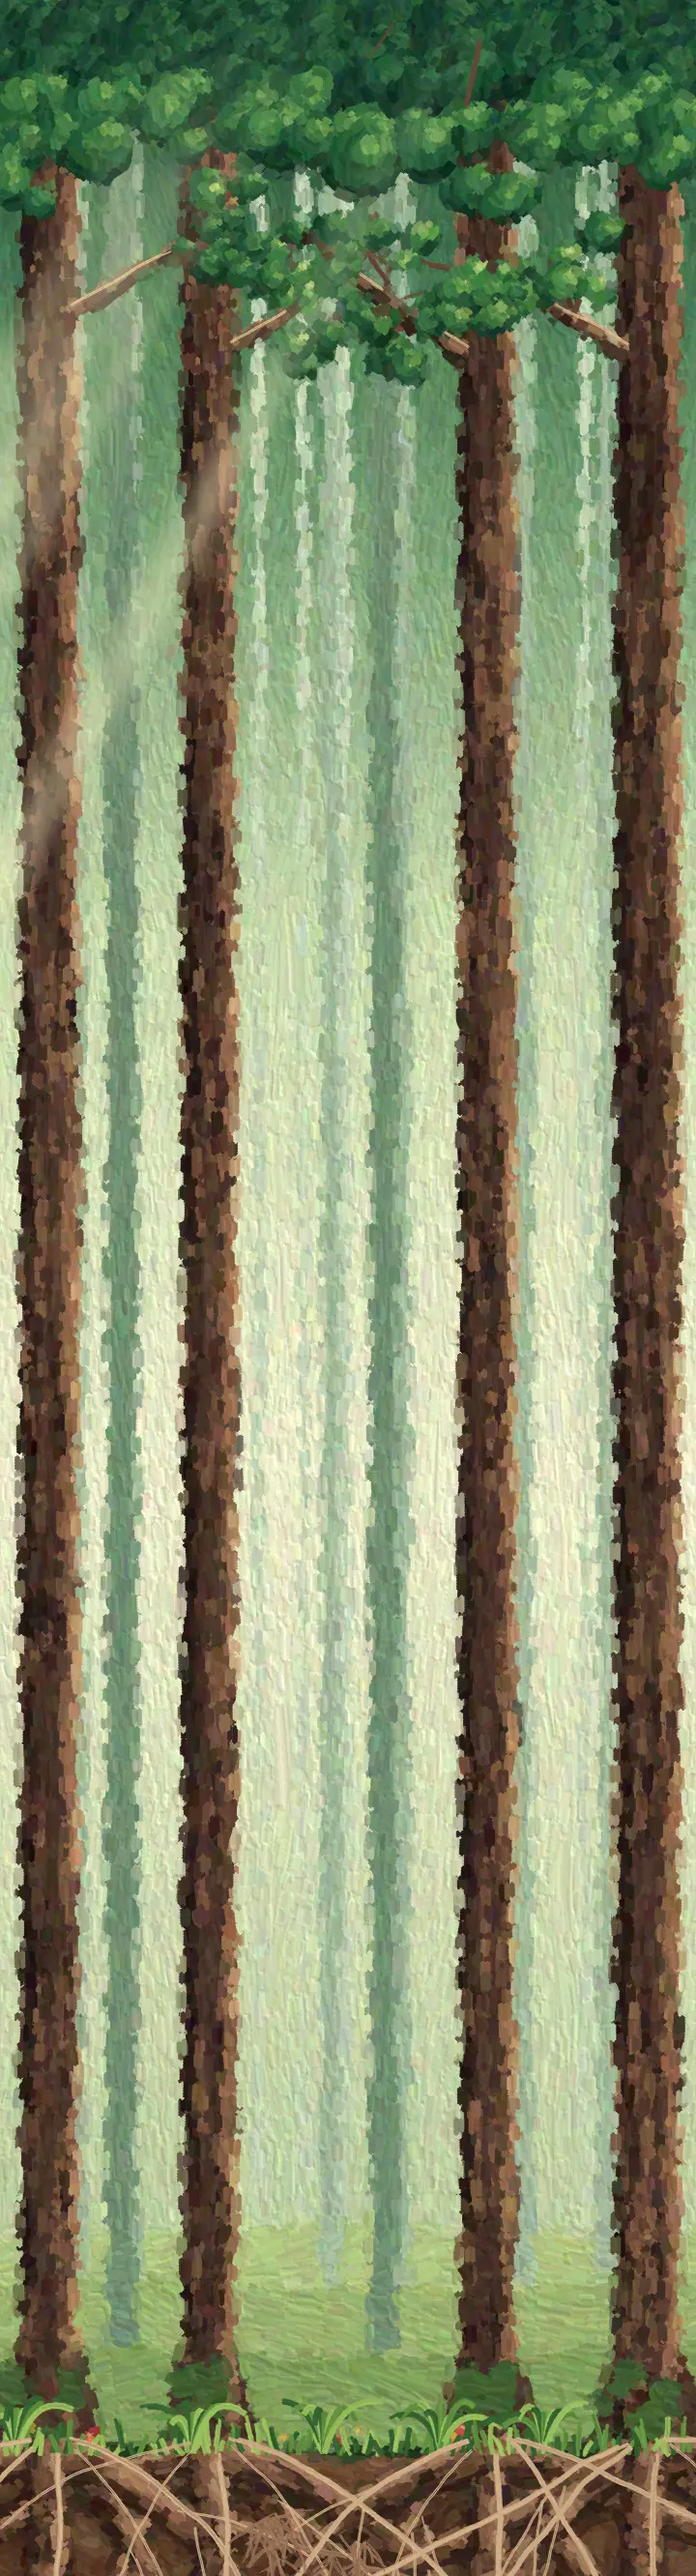
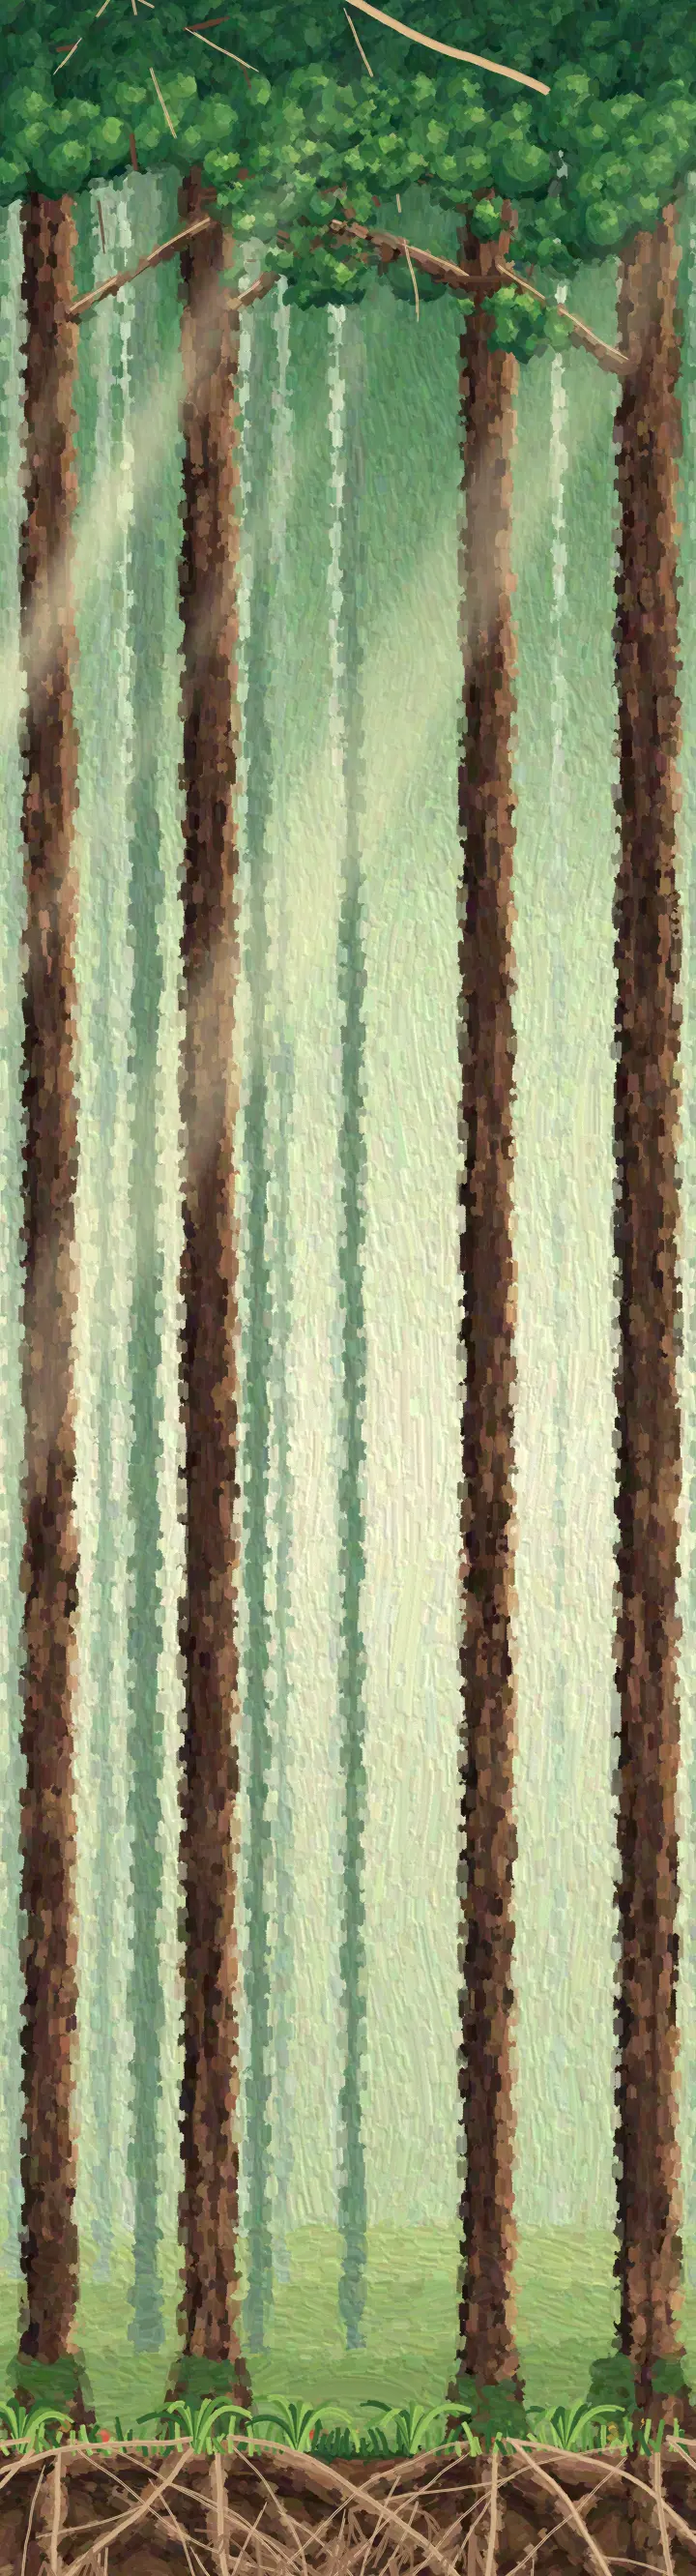
feat(landing): use the founder's intro paragraph in the hero
Repaint the tall layout with a taller sky so the longer intro clears
the treetops on phones.

Claude-Session: https://claude.ai/code/session_012KEDndk26D229XghHMz4Pq

diff --git a/landing/index.html b/landing/index.html
@@ -31,9 +31,12 @@
           <h1>Reconcile</h1>
           <p class="define"><i>verb.</i> To find common ground, then act on it together.</p>
           <p class="lede">
-            Reconcile is a home for groups. Write posts for the people who follow you. Team up with
-            other groups when you agree on something. Your posts spread only when people vote to
-            share them.
+            Reconcile is a home for all sorts of Groups. Agree on Documents like your mission,
+            values, house rules or action roadmaps democratically. Write posts, called Dispatches,
+            for the people who follow your Groups. Team up with other Groups to form Coalitions when
+            you find common ground and a shared mission. And above all, read and write the
+            Dispatches that spread to higher-level Coalitions when the Groups composing them vote to
+            promote them.
           </p>
           <div class="actions">
             <!-- OPEN: where the app lives relative to this page (landing/README.md). -->

diff --git a/landing/landing.css b/landing/landing.css
@@ -294,7 +294,7 @@ a {
 /* Tall painting: each piece's height in widths matches `TALL.heights` in paint.py. */
 .sky {
   --piece: url('img/tall/sky.webp');
-  aspect-ratio: 100 / 230;
+  aspect-ratio: 100 / 270;
   background-color: var(--sky);
   background-position: center bottom;
 }

diff --git a/landing/paint.py b/landing/paint.py
@@ -105,7 +105,7 @@ TALL = Layout(
     name="tall",
     width=720,
     units=900,
-    heights=(2.3, 5.4, 3.7, 2.4, 4.1),
+    heights=(2.7, 5.4, 3.7, 2.4, 4.1),
     trees=(0.07, 0.3, 0.7, 0.93),
     crowns=0.7,
     floor=0.5,
